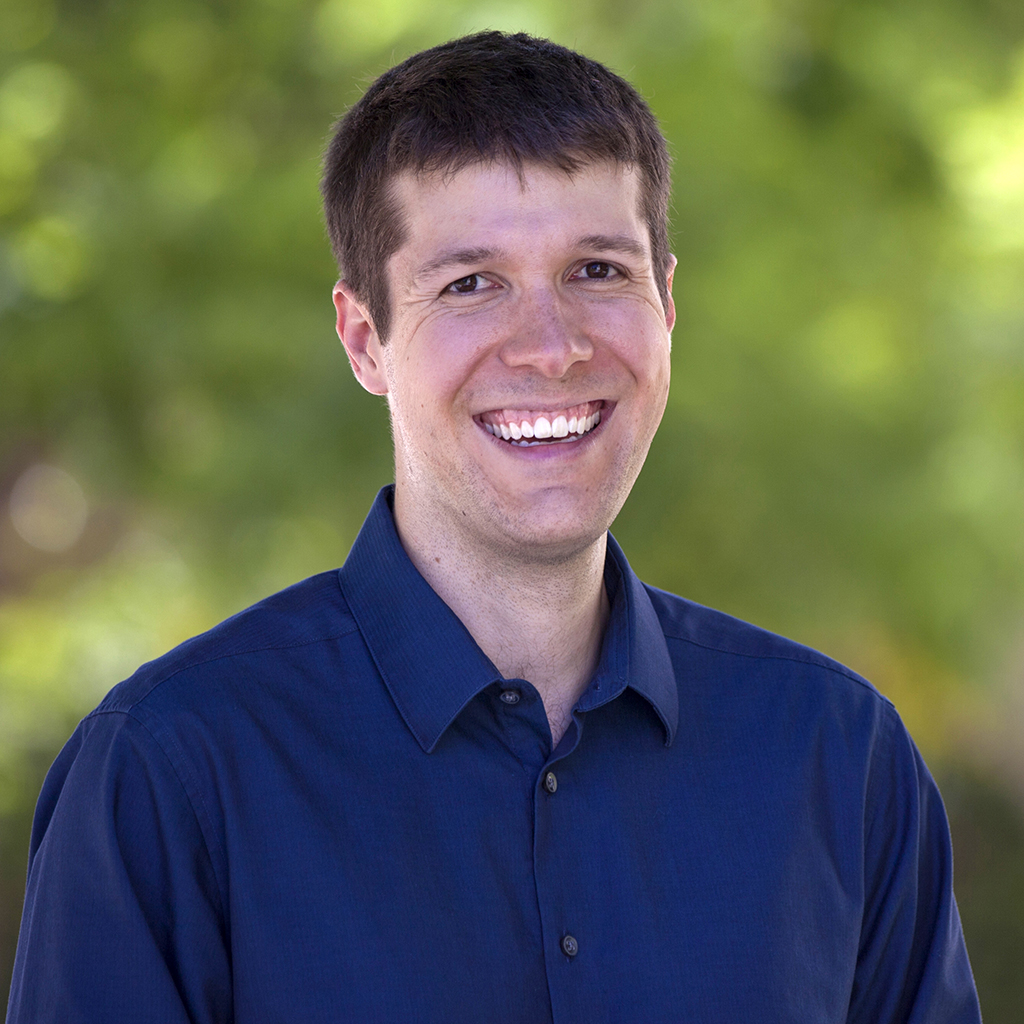
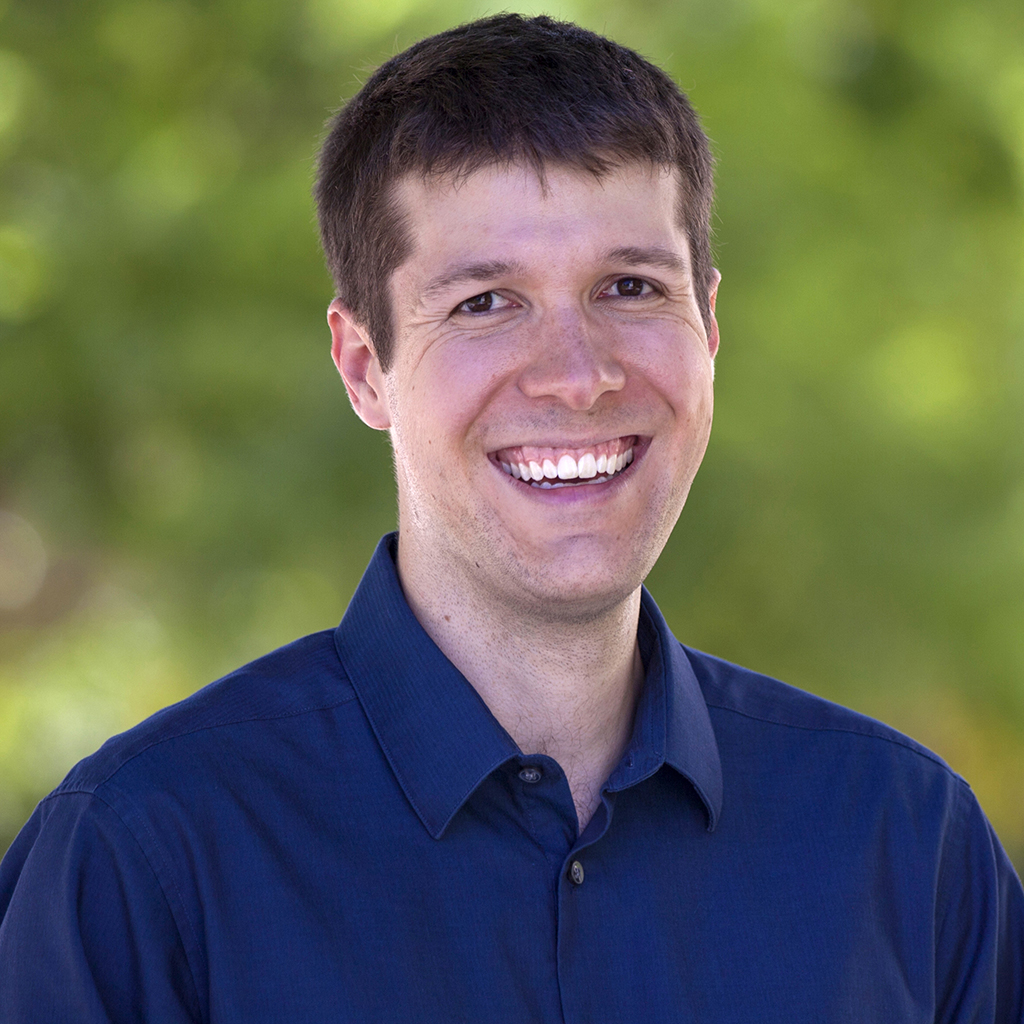
Work on sidebar, travel WIP

diff --git a/_includes/publications.html b/_includes/publications.html
@@ -1,87 +1,95 @@
-{% assign sorted_pubs = site.data.publications | sort: 'date' | reverse %}
+<div class='mainitem' id='publications'> 
 
-{% for pub in sorted_pubs %}
+	<div class='mainheader'>Publications</div>
 
-	<div class='row pub'>
+	{% assign sorted_pubs = site.data.publications | sort: 'date' | reverse %}
 
-		{% assign linktypes = pub.links | map: 'type' | join ' ' %}
+	{% for pub in sorted_pubs %}
 
-		{% capture pdflink %}
-			{% if linktypes contains 'pdf' %}
-				{% assign pdflink = (pub.links | where: 'type','pdf')[0] %}
-				{% if pdflink.target %}
-					{{ pdflink.target }}
-				{% else %}
-					pdf/{{ pub.id }}.pdf
+		<div class='row pub'>
+
+			{% assign linktypes = pub.links | map: 'type' | join ' ' %}
+
+			{% capture pdflink %}
+				{% if linktypes contains 'pdf' %}
+					{% assign pdflink = (pub.links | where: 'type','pdf')[0] %}
+					{% if pdflink.target %}
+						{{ pdflink.target }}
+					{% else %}
+						pdf/{{ pub.id }}.pdf
+					{% endif %}
 				{% endif %}
-			{% endif %}
-		{% endcapture %}
-
-		<div class='col-lg-3 col-md-4 col-xs-5 pubimagesection'>
-			{% capture imagehtml %}
-				<img class='pubimage img img-responsive' src='img/pubthumbs/{{ pub.id }}.png' width='200'/>
 			{% endcapture %}
 
-			{% if linktypes contains 'pdf' %}
-				<a target='_blank' href='{{ pdflink }}'>{{ imagehtml }}</a>
-			{% else %}
-				{{ imagehtml }}
-			{% endif %}
-		</div>
+			<div class='col-lg-3 col-md-4 col-xs-4 pubimagesection'>
+				{% capture imagehtml %}
+					<img class='pubimage img img-responsive' src='img/pubthumbs/{{ pub.id }}.png' width='200'/>
+				{% endcapture %}
 
-		<div class='col-lg-9 col-md-8 col-xs-7 pubtextsection'>
-
-			<div class='pubtitle'>
 				{% if linktypes contains 'pdf' %}
-					<a target='_blank' href='{{ pdflink }}'>{{ pub.title }}</a>
+					<a target='_blank' href='{{ pdflink }}'>{{ imagehtml }}</a>
 				{% else %}
-					{{ pub.title }}
+					{{ imagehtml }}
 				{% endif %}
 			</div>
 
-			<div class='pubauthors'>
-				{% for author in pub.authors %}
-					{% if forloop.last %} and {% endif %}
-					{% if site.data.people[author] %}
-						<a class='pubauthor' target='_blank' href='{{ site.data.people[author] }}'>
-							{{ author }}{% if forloop.last == false %}, {% endif %}
-						</a>
+			<div class='col-lg-9 col-md-8 col-xs-8 pubtextsection'>
+
+				<div class='pubtitle'>
+					{% if linktypes contains 'pdf' %}
+						<a target='_blank' href='{{ pdflink }}'>{{ pub.title }}</a>
 					{% else %}
-						{{ author }}{% if forloop.last == false %}, {% endif %}
+						{{ pub.title }}
 					{% endif %}
+				</div>
+
+				<div class='pubauthors'>
+					{% for author in pub.authors %}
+						{% if forloop.last %} and {% endif %}
+						{% if site.data.people[author] %}
+							<a class='pubauthor' target='_blank' href='{{ site.data.people[author] }}'>
+								{{ author }}{% if forloop.last == false %}, {% endif %}
+							</a>
+						{% else %}
+							{{ author }}{% if forloop.last == false %}, {% endif %}
+						{% endif %}
+					{% endfor %}
+				</div>
+
+
+				<div class='pubvenue'>{{ pub.venue }}</div>
+
+				{% for link in pub.links %}
+					{% if forloop.first == false %} | {% endif %}
+
+					{% capture lname %}
+						{% if link.type == 'link' %}
+							{{ link.name }}
+						{% else %}
+							{{ link.type }}
+						{% endif %}
+					{% endcapture %}
+
+					{% capture ltarget %}
+						{% if link.type == 'link' %}
+							{{ link.target }}
+						{% else %}
+							{{ link.type }}/{% if link.target %}{{ link.target }}{% else %}{{ pub.id }}.{{ site.data.extensions[link.type] }}{% endif %}
+						{% endif %}
+					{% endcapture %}
+
+					<a class='publink' target='_blank' href='{{ ltarget }}'>{{ lname }}</a>
 				{% endfor %}
+
+				{% if pub.award %}
+					<div class='pubaward'>{{ pub.award }}</div>
+				{% endif %}
+
 			</div>
 
-
-			<div class='pubvenue'>{{ pub.venue }}</div>
-
-			{% for link in pub.links %}
-				{% if forloop.first == false %} | {% endif %}
-
-				{% capture lname %}
-					{% if link.type == 'link' %}
-						{{ link.name }}
-					{% else %}
-						{{ link.type }}
-					{% endif %}
-				{% endcapture %}
-
-				{% capture ltarget %}
-					{% if link.type == 'link' %}
-						{{ link.target }}
-					{% else %}
-						{{ link.type }}/{% if link.target %}{{ link.target }}{% else %}{{ pub.id }}.{{ site.data.extensions[link.type] }}{% endif %}
-					{% endif %}
-				{% endcapture %}
-
-				<a class='publink' target='_blank' href='{{ ltarget }}'>{{ lname }}</a>
-			{% endfor %}
-
-			{% if pub.award %}
-				<div class='pubaward'>{{ pub.award }}</div>
-			{% endif %}
-
 		</div>
+	{% endfor %}
 
 	</div>
-{% endfor %}
+
+</div>

diff --git a/_includes/sidebar.html b/_includes/sidebar.html
@@ -1,0 +1,66 @@
+<div class='sidebaritem' id='headshot'>
+	<img class='img img-responsive' src='img/me.jpg' width='350'/>
+</div>
+
+<div class='sidebaritem' id='affiliations'>
+	<div class='sidebarheader'>Affiliations</div>
+	<div><a href='http://stanford.edu'>Stanford University</a></div>
+	<div><a href='http://stanford.edu'>Computer Science Department</a></div>
+	<div><a href='http://graphicsstanford.edu'>Graphics Lab</a> | <a href='http://cocolab.stanford.edu'>CoCoLab</a></div>
+</div>
+
+<div class='sidebaritem' id='contactinfo'>
+	<div class='sidebarheader'>Contact Information</div>
+	<div>Gates Computer Science, Room 381</div>
+	<div>Stanford, CA 94305</div>
+	<div>
+		<a href='mailto:dritchie@stanford.edu' style='text-decoration:none'>
+		  <img src='img/icons/email.svg' type='image/svg+xml'
+		       width=32px style='vertical-align:middle'>
+		</a>
+		&nbsp;
+		<a href='https://github.com/dritchie' style='text-decoration:none'>
+		  <img src='img/icons/github.svg' type='image/svg+xml'
+		       width=36px style='vertical-align:middle'>
+		</a>
+		&nbsp;
+		<a href='https://soundcloud.com/daniel-ritchie-2' style='text-decoration:none'>
+		  <img src='img/icons/soundcloud.png'
+		       width=32px style='vertical-align:middle'>
+		</a>
+	</div>
+</div>
+
+<div class='sidebaritem' id='travel'>
+	<div class='sidebarheader'>Travel</div>
+
+	{% capture currdate %}
+		{% assign toks =  site.time | split: ' ' %}
+		{{ toks[0] }}
+	{% endcapture %}
+
+	{% for travitem in site.data.travel.items %}
+
+		{% capture datestring %}
+			{% assign startdateparts = travitem.startdate | split: '-' %}
+			{% assign startmonthi = startdateparts[1] | minus: 1 %}
+			{% assign startmonth = site.data.travel.monthnames[startmonthi] %}
+			{% assign startday = startdateparts[2] %}
+			{% assign enddateparts = travitem.enddate | split: '-' %}
+			{% assign endmonthi = enddateparts[1] | minus: 1 %}
+			{% assign endmonth = site.data.travel.monthnames[endmonthi] %}
+			{% assign endday = enddateparts[2] %}
+
+			{% if travitem.startdate == travitem.enddate %}
+				{{ startmonth }} {{ startday }}
+			{% endif  %}
+		{% endcapture %}
+
+		<div class='travelitem {% if travitem.enddate < currdate %}{{ oldtravelitem }}{% endif %}'>
+			<span class='traveldate'></span>&nbsp;&middot;&nbsp;<span class='travelloc'>{{ travitem.location }}</span><br/>
+			<span class='travelevent'>{{ travitem.event }}</span>
+		</div>
+
+	{% endfor %}
+
+</div>

diff --git a/index.html b/index.html
@@ -2,8 +2,13 @@
 layout: default
 ---
 
-<div class='container' id='content'>
+<div class='mainitem' id='about'>
+	<div class='hidden-md hidden-lg mainheader'>About</div>
 
-	{% include publications.html %}
+	<div>
+		Lorem ipsum dolor sit amet, consectetur adipiscing elit. Mauris ultricies sapien et risus scelerisque, iaculis condimentum mi iaculis. Cum sociis natoque penatibus et magnis dis parturient montes, nascetur ridiculus mus. Curabitur nec tincidunt dolor. In vestibulum commodo lectus eu iaculis. Praesent ac leo eu tortor aliquam auctor nec id tortor. Pellentesque quis nunc sollicitudin, tristique purus sit amet, bibendum nulla. Pellentesque eget semper orci. Duis ac convallis lectus. Aliquam placerat est sed urna elementum fringilla. Lorem ipsum dolor sit amet, consectetur adipiscing elit. Vestibulum ante ipsum primis in faucibus orci luctus et ultrices posuere cubilia Curae;
+	</div>
 
 </div>
+
+{% include publications.html %}

diff --git a/_layouts/default.html b/_layouts/default.html
@@ -5,7 +5,29 @@
 
 	<body>
 
-		{{ content }}
+		<div id="mainnav" class="navbar navbar-inverse navbar-static-top" role="navigation">
+	        <div class="container">
+				<div class="navbar-brand">
+					<a href=".">Daniel Ritchie</a>
+				</div>
+	        </div>     
+	    </div>
+
+	    <div class='container' id='content'>
+
+	    	<div class='row'>
+
+	    		<div class='col-md-3 sidebar'>
+	    			{% include sidebar.html %}
+	    		</div>
+
+	    		<div class='col-md-9 maincontent'>
+					{{ content }}
+				</div>
+
+			</div>
+
+		</div>
 
 		{% include scripts.html %}
 	</body>
